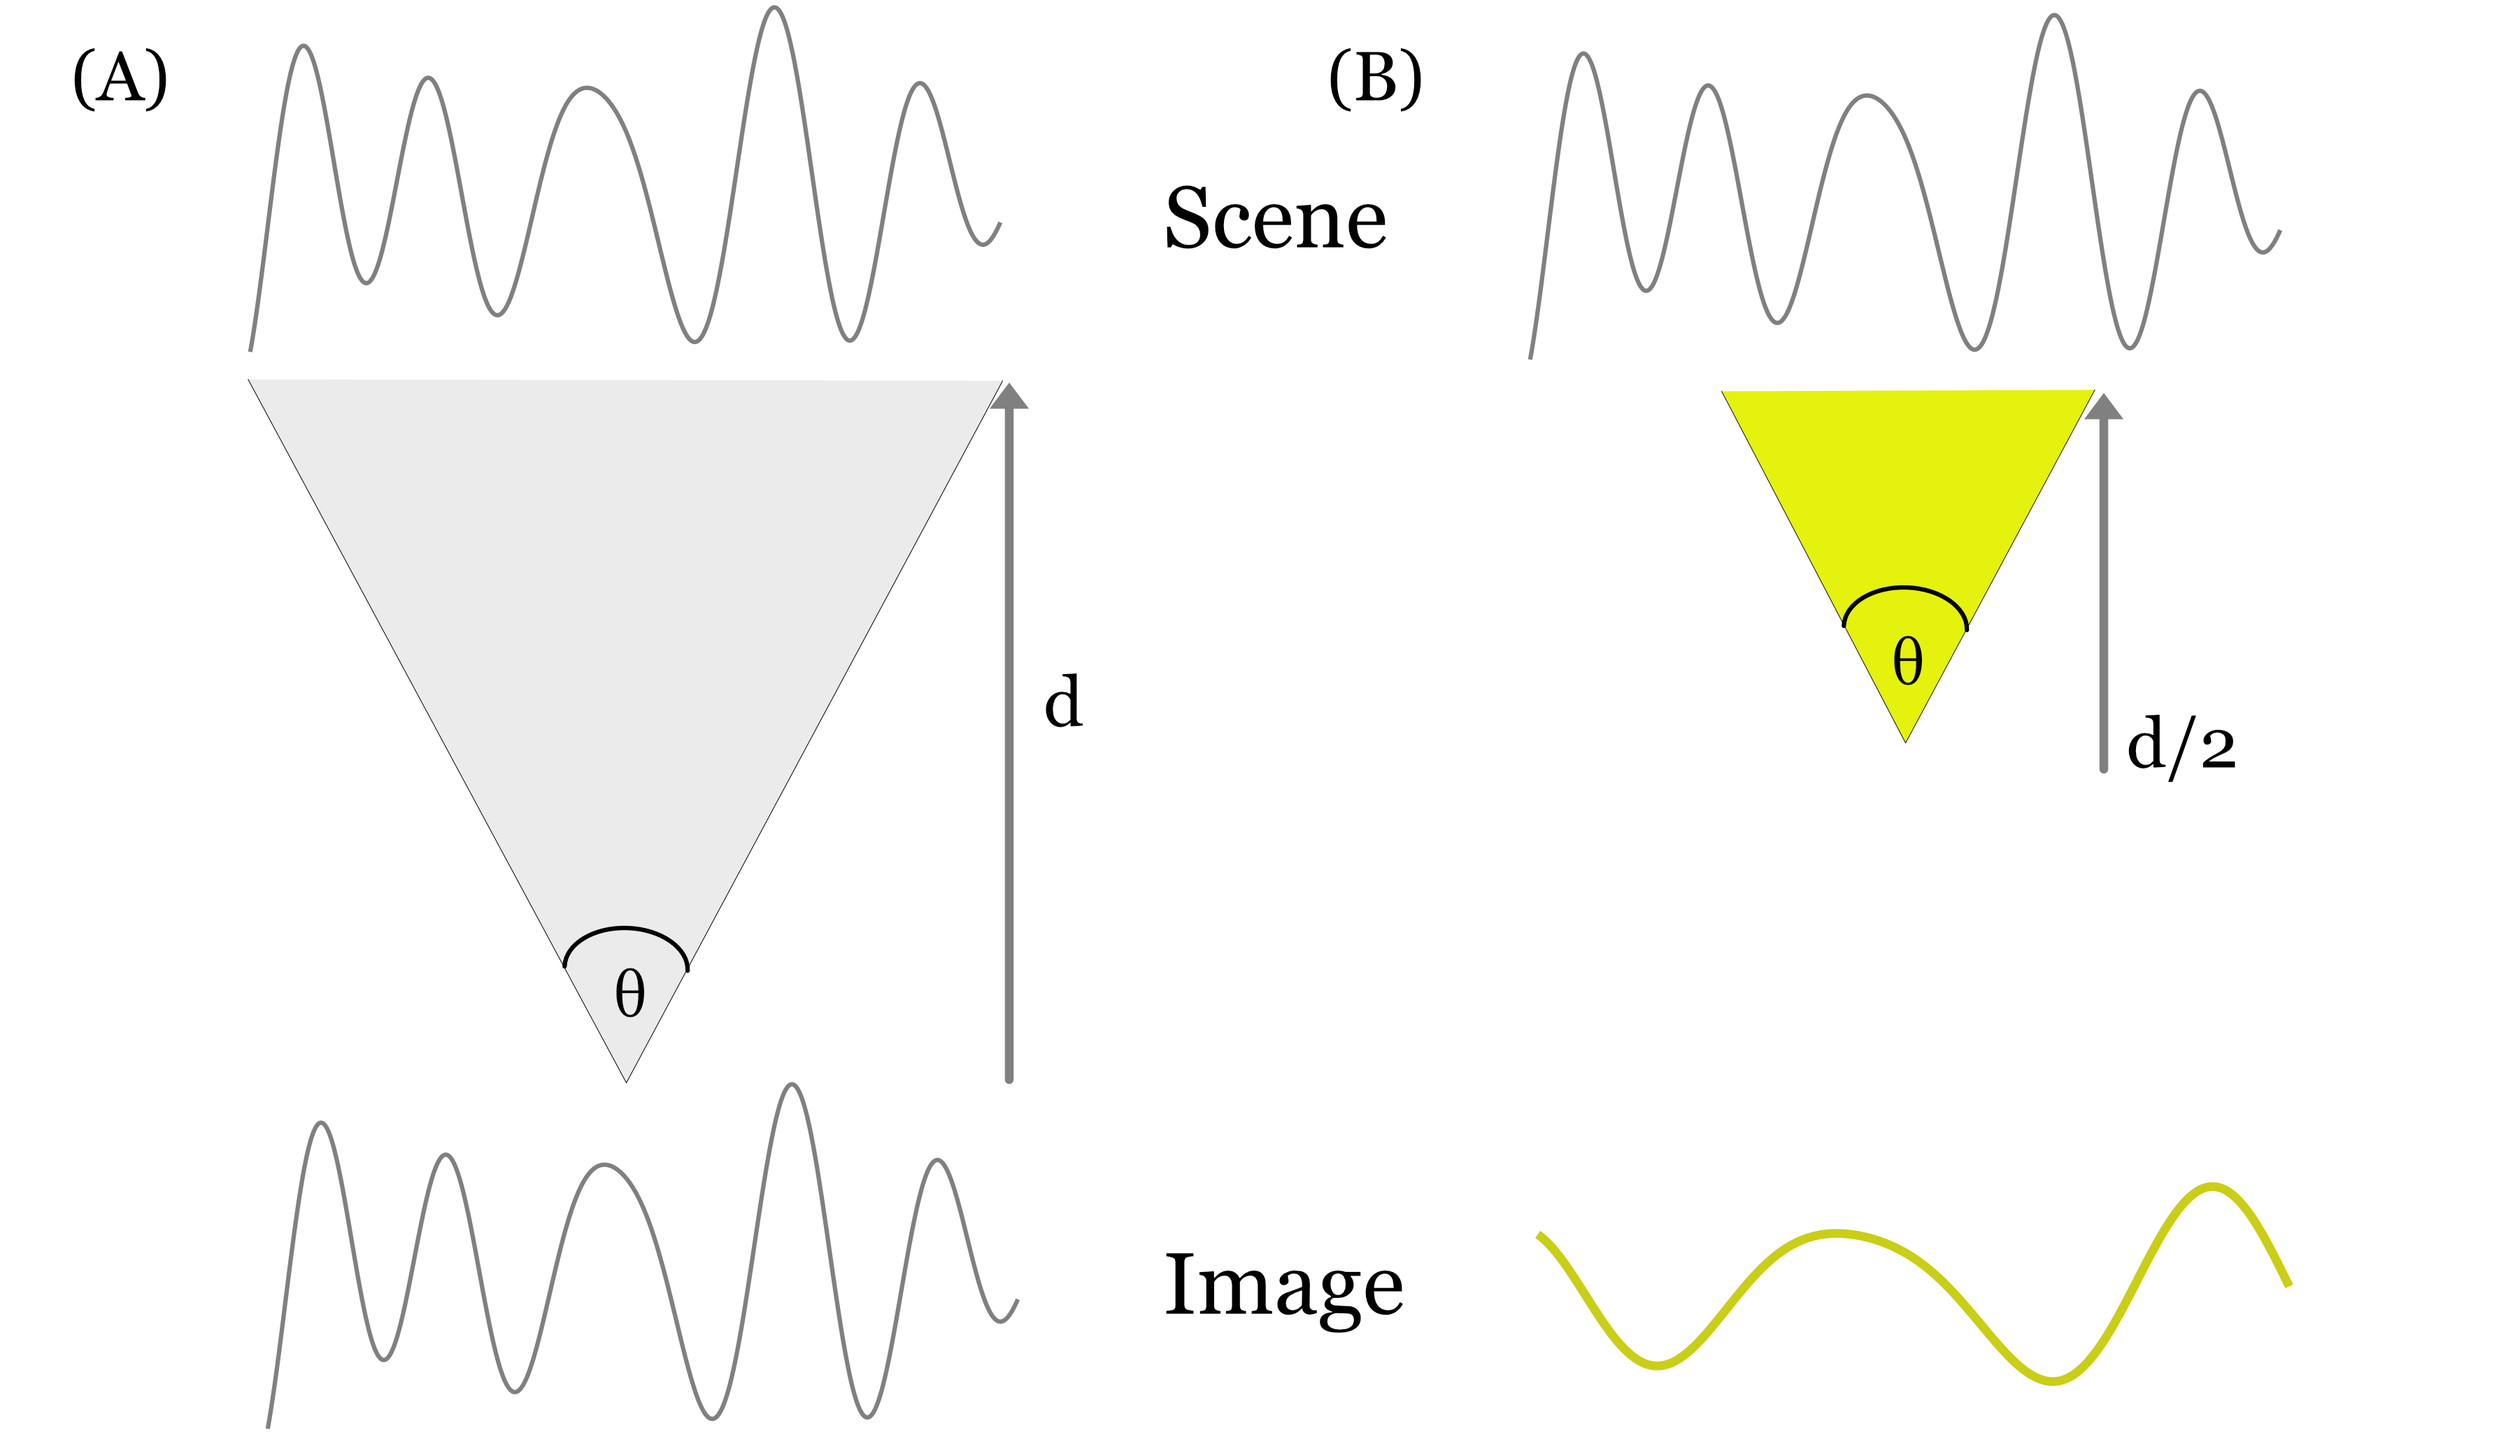
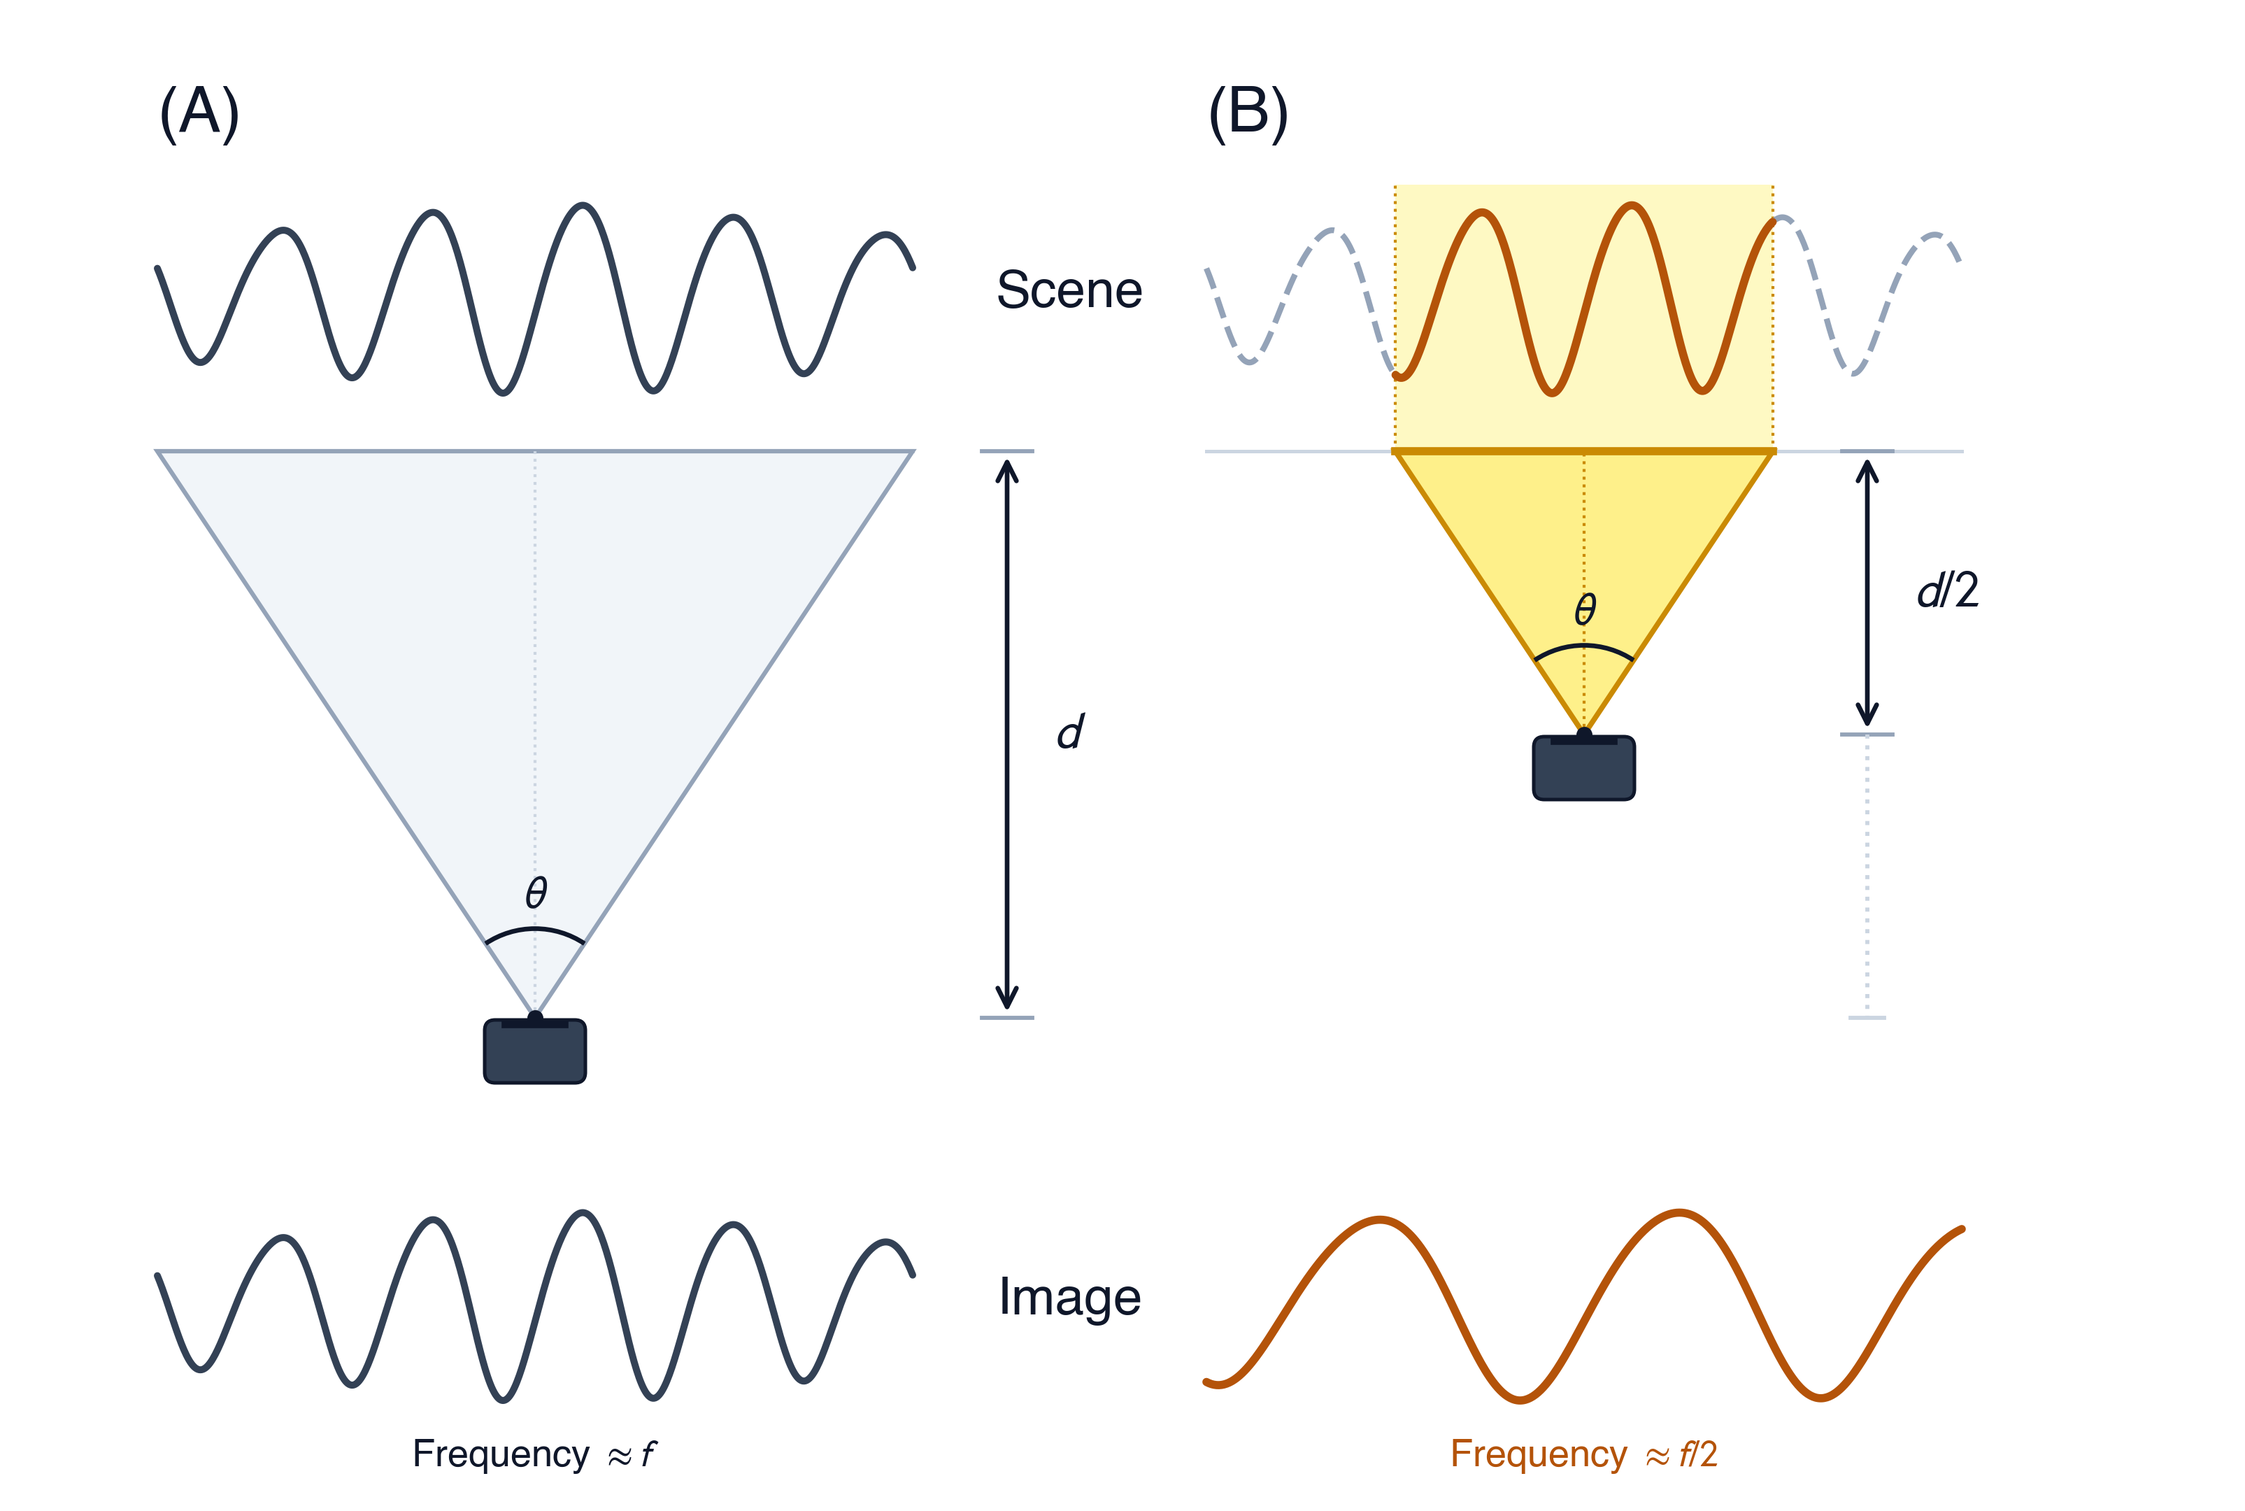
Upgrading image

diff --git a/chapters/images/lightfields/05-spatial/generate_one_over_f.py b/chapters/images/lightfields/05-spatial/generate_one_over_f.py
@@ -1,0 +1,235 @@
+import numpy as np
+import matplotlib.pyplot as plt
+from matplotlib.patches import Polygon, Arc, FancyBboxPatch, Rectangle
+
+# Configure fonts
+plt.rcParams['font.sans-serif'] = ['Helvetica', 'Arial', 'DejaVu Sans']
+plt.rcParams['font.family'] = 'sans-serif'
+plt.rcParams['mathtext.fontset'] = 'stixsans'
+
+def scene_wave(x):
+    """
+    Quasi-harmonic contrast pattern with ~5 cycles across [-1, 1] and identifiable peaks.
+    """
+    omega = 5.0 * np.pi
+    # Envelope modulation creates identifiable landmarks for visual tracking
+    env = 0.82 + 0.18 * np.cos(0.9 * np.pi * x - 0.2)
+    wave = env * np.sin(omega * x - 0.3) + 0.08 * np.cos(2 * omega * x)
+    return wave
+
+def draw_camera(ax, x_center, y_apex, color='#1e293b'):
+    """Draw a clean, compact camera glyph at the optical apex."""
+    # Lens element
+    ax.plot([x_center - 0.14, x_center + 0.14], [y_apex - 0.03, y_apex - 0.03], 
+            color='#0f172a', lw=2.8, zorder=7)
+    # Camera body
+    body_w = 0.44
+    body_h = 0.26
+    rect = FancyBboxPatch((x_center - body_w/2, y_apex - 0.03 - body_h), 
+                          body_w, body_h, 
+                          boxstyle="round,pad=0.02,rounding_size=0.05",
+                          facecolor='#334155', edgecolor='#0f172a', lw=1.2, zorder=6)
+    ax.add_patch(rect)
+    # Optical node
+    ax.plot(x_center, y_apex, marker='o', markersize=4.5, color='#0f172a', zorder=8)
+
+def generate_figure(output_path):
+    fig = plt.figure(figsize=(10.5, 7.0), dpi=300)
+    fig.patch.set_facecolor('white')
+
+    ax = fig.add_axes([0, 0, 1, 1])
+    ax.set_xlim(0, 10.5)
+    ax.set_ylim(0, 7.0)
+    ax.axis('off')
+
+    # Color palette
+    c_dark = '#0f172a'
+    c_slate = '#334155'
+    c_muted = '#64748b'
+    c_light_line = '#cbd5e1'
+    c_fov_a = '#f1f5f9'
+    c_fov_border_a = '#94a3b8'
+    
+    # Warm amber / gold for B (matches textbook reference: 'yellow shaded region')
+    c_amber_fill = '#fef08a'      # soft warm yellow
+    c_amber_border = '#ca8a04'    # amber-600
+    c_amber_curve = '#b45309'     # amber-700
+    c_amber_bg = '#fef9c3'        # amber-100 highlight
+
+    # Horizontal geometry
+    panel_w = 3.6
+    x_mid_a = 2.45
+    x_mid_b = 7.45
+    
+    # Vertical geometry
+    y_scene_wave = 5.70
+    y_scene_plane = 4.95
+    y_cam_a = 2.25
+    d_val = y_scene_plane - y_cam_a # 2.70
+    y_cam_b = y_scene_plane - d_val / 2.0 # 3.60
+    y_image_wave = 0.90
+
+    n_pts = 600
+    u = np.linspace(-1, 1, n_pts)
+    wave_full = scene_wave(u)
+
+    # -------------------------------------------------------------
+    # Panel Labels: (A) and (B)
+    # -------------------------------------------------------------
+    ax.text(0.65, 6.55, "(A)", fontsize=22, fontweight='bold', color=c_dark, va='center')
+    ax.text(5.65, 6.55, "(B)", fontsize=22, fontweight='bold', color=c_dark, va='center')
+
+    # Center Row Titles
+    ax.text(5.0, y_scene_wave, "Scene", fontsize=18, fontweight='bold', color=c_dark, ha='center', va='center')
+    ax.text(5.0, y_image_wave, "Image", fontsize=18, fontweight='bold', color=c_dark, ha='center', va='center')
+
+    # =============================================================
+    # PANEL A
+    # =============================================================
+    # 1. Top Scene Wave
+    x_scene_a = x_mid_a + (panel_w / 2.0) * u
+    y_scene_plot_a = y_scene_wave + 0.45 * wave_full
+    ax.plot(x_scene_a, y_scene_plot_a, color=c_slate, lw=2.4, solid_capstyle='round', zorder=4)
+
+    # Scene plane line
+    ax.plot([x_mid_a - panel_w/2, x_mid_a + panel_w/2], 
+            [y_scene_plane, y_scene_plane], color=c_light_line, lw=1.2, ls='-', zorder=2)
+
+    # Optical axis (centerline)
+    ax.plot([x_mid_a, x_mid_a], [y_cam_a, y_scene_plane], 
+            color='#cbd5e1', lw=1.0, ls=':', zorder=3)
+
+    # 2. FOV Cone A
+    fov_pts_a = [
+        [x_mid_a, y_cam_a],
+        [x_mid_a - panel_w/2, y_scene_plane],
+        [x_mid_a + panel_w/2, y_scene_plane]
+    ]
+    poly_a = Polygon(fov_pts_a, closed=True, facecolor=c_fov_a, edgecolor=c_fov_border_a, lw=1.5, zorder=2)
+    ax.add_patch(poly_a)
+
+    # Angle theta arc
+    angle_deg = np.degrees(2 * np.arctan((panel_w/2) / d_val))
+    arc_a = Arc((x_mid_a, y_cam_a), 0.85, 0.85, angle=90, 
+                theta1=-angle_deg/2, theta2=angle_deg/2, 
+                color=c_dark, lw=1.6, zorder=5)
+    ax.add_patch(arc_a)
+    ax.text(x_mid_a, y_cam_a + 0.58, r"$\theta$", 
+            ha='center', va='center', fontsize=16, fontweight='bold', color=c_dark, zorder=6)
+
+    # Camera glyph
+    draw_camera(ax, x_mid_a, y_cam_a)
+
+    # Distance arrow d
+    x_dim_a = x_mid_a + panel_w/2 + 0.45
+    ax.annotate('', xy=(x_dim_a, y_scene_plane), xytext=(x_dim_a, y_cam_a),
+                arrowprops=dict(arrowstyle='<->', color=c_dark, lw=1.6, mutation_scale=16),
+                zorder=5)
+    ax.plot([x_dim_a - 0.12, x_dim_a + 0.12], [y_scene_plane, y_scene_plane], color='#94a3b8', lw=1.4)
+    ax.plot([x_dim_a - 0.12, x_dim_a + 0.12], [y_cam_a, y_cam_a], color='#94a3b8', lw=1.4)
+    ax.text(x_dim_a + 0.22, (y_scene_plane + y_cam_a)/2, r"$d$", 
+            ha='left', va='center', fontsize=18, fontweight='bold', color=c_dark)
+
+    # 3. Rendered Image Wave A
+    x_img_a = x_mid_a + (panel_w / 2.0) * u
+    y_img_plot_a = y_image_wave + 0.45 * wave_full
+    ax.plot(x_img_a, y_img_plot_a, color=c_slate, lw=2.4, solid_capstyle='round')
+
+    # Sub-label for frequency
+    ax.text(x_mid_a, y_image_wave - 0.65, r"Frequency $\approx f$", 
+            ha='center', va='top', fontsize=13, fontweight='bold', color=c_dark)
+
+    # =============================================================
+    # PANEL B
+    # =============================================================
+    # 1. Top Scene Wave
+    x_scene_b = x_mid_b + (panel_w / 2.0) * u
+    y_scene_plot_b = y_scene_wave + 0.45 * wave_full
+    
+    mask_captured = np.abs(u) <= 0.5
+    mask_left = u < -0.5
+    mask_right = u > 0.5
+
+    # Yellow highlight block spanning from scene plane up past the wave
+    # Perfectly connects with the yellow FOV cone below!
+    highlight_rect = Rectangle((x_mid_b - panel_w/4, y_scene_plane), 
+                               panel_w/2, (y_scene_wave + 0.52) - y_scene_plane,
+                               facecolor=c_amber_bg, edgecolor='none', zorder=1)
+    ax.add_patch(highlight_rect)
+    # Subtle dashed boundary on left and right of captured column
+    ax.plot([x_mid_b - panel_w/4, x_mid_b - panel_w/4], 
+            [y_scene_plane, y_scene_wave + 0.52], color=c_amber_border, lw=1.0, ls=':', zorder=2)
+    ax.plot([x_mid_b + panel_w/4, x_mid_b + panel_w/4], 
+            [y_scene_plane, y_scene_wave + 0.52], color=c_amber_border, lw=1.0, ls=':', zorder=2)
+
+    # Muted outer parts of scene
+    ax.plot(x_scene_b[mask_left], y_scene_plot_b[mask_left], 
+            color='#94a3b8', lw=2.0, ls='--', solid_capstyle='round', zorder=3)
+    ax.plot(x_scene_b[mask_right], y_scene_plot_b[mask_right], 
+            color='#94a3b8', lw=2.0, ls='--', solid_capstyle='round', zorder=3)
+    # Captured central part
+    ax.plot(x_scene_b[mask_captured], y_scene_plot_b[mask_captured], 
+            color=c_amber_curve, lw=2.8, solid_capstyle='round', zorder=4)
+
+    # Scene plane line
+    ax.plot([x_mid_b - panel_w/2, x_mid_b + panel_w/2], 
+            [y_scene_plane, y_scene_plane], color=c_light_line, lw=1.2, ls='-', zorder=2)
+    ax.plot([x_mid_b - panel_w/4, x_mid_b + panel_w/4], 
+            [y_scene_plane, y_scene_plane], color=c_amber_border, lw=2.8, zorder=4)
+
+    # Optical axis (centerline)
+    ax.plot([x_mid_b, x_mid_b], [y_cam_b, y_scene_plane], 
+            color='#ca8a04', lw=1.0, ls=':', zorder=3)
+
+    # 2. FOV Cone B (Yellow shaded region)
+    fov_pts_b = [
+        [x_mid_b, y_cam_b],
+        [x_mid_b - panel_w/4, y_scene_plane],
+        [x_mid_b + panel_w/4, y_scene_plane]
+    ]
+    poly_b = Polygon(fov_pts_b, closed=True, facecolor=c_amber_fill, edgecolor=c_amber_border, lw=1.8, zorder=2)
+    ax.add_patch(poly_b)
+
+    # Angle theta arc (identical theta)
+    arc_b = Arc((x_mid_b, y_cam_b), 0.85, 0.85, angle=90, 
+                theta1=-angle_deg/2, theta2=angle_deg/2, 
+                color=c_dark, lw=1.6, zorder=5)
+    ax.add_patch(arc_b)
+    ax.text(x_mid_b, y_cam_b + 0.58, r"$\theta$", 
+            ha='center', va='center', fontsize=16, fontweight='bold', color=c_dark, zorder=6)
+
+    # Camera glyph
+    draw_camera(ax, x_mid_b, y_cam_b)
+
+    # Distance arrow d/2
+    x_dim_b = x_mid_b + panel_w/4 + 0.45
+    ax.annotate('', xy=(x_dim_b, y_scene_plane), xytext=(x_dim_b, y_cam_b),
+                arrowprops=dict(arrowstyle='<->', color=c_dark, lw=1.6, mutation_scale=16),
+                zorder=5)
+    ax.plot([x_dim_b - 0.12, x_dim_b + 0.12], [y_scene_plane, y_scene_plane], color='#94a3b8', lw=1.4)
+    ax.plot([x_dim_b - 0.12, x_dim_b + 0.12], [y_cam_b, y_cam_b], color='#94a3b8', lw=1.4)
+    ax.text(x_dim_b + 0.22, (y_scene_plane + y_cam_b)/2, r"$d/2$", 
+            ha='left', va='center', fontsize=18, fontweight='bold', color=c_dark)
+
+    # Dotted reference line down to d level
+    ax.plot([x_dim_b, x_dim_b], [y_cam_b, y_cam_a], color='#cbd5e1', lw=1.4, ls=':')
+    ax.plot([x_dim_b - 0.08, x_dim_b + 0.08], [y_cam_a, y_cam_a], color='#cbd5e1', lw=1.4)
+
+    # 3. Rendered Image Wave B
+    # Exact zoomed version: u_sensor in [-1, 1] maps to u_scene in [-0.5, 0.5]
+    u_sensor = np.linspace(-1, 1, n_pts)
+    wave_zoomed = scene_wave(u_sensor * 0.5)
+    x_img_b = x_mid_b + (panel_w / 2.0) * u_sensor
+    y_img_plot_b = y_image_wave + 0.45 * wave_zoomed
+    ax.plot(x_img_b, y_img_plot_b, color=c_amber_curve, lw=2.8, solid_capstyle='round')
+
+    # Sub-label for frequency
+    ax.text(x_mid_b, y_image_wave - 0.65, r"Frequency $\approx f/2$", 
+            ha='center', va='top', fontsize=13, fontweight='bold', color=c_amber_curve)
+
+    plt.savefig(output_path, dpi=300, facecolor='white', bbox_inches='tight')
+    plt.close()
+    print(f"Final figure saved to {output_path}")
+
+if __name__ == '__main__':
+    generate_figure('/Users/wandell/.gemini/antigravity-ide/brain/c7e42699-8421-484f-b20d-edf4bade095e/scratch/one-over-f-new.png')
